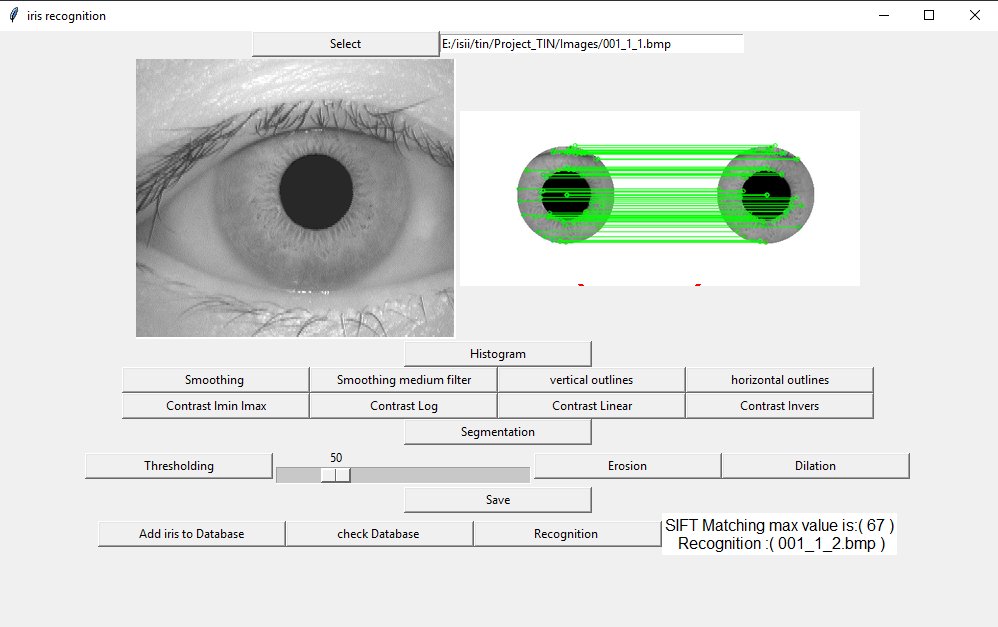
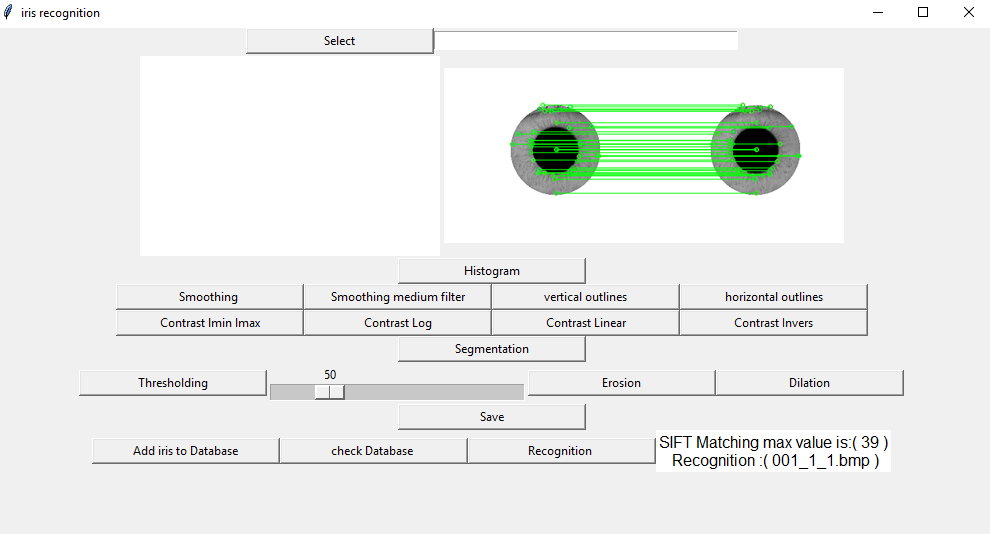
Signed-off-by: hackamro <lounis.amar.unity@gmail.com>

diff --git a/gui.py b/gui.py
@@ -293,7 +293,10 @@ def Recognition (_v):
     try:
         imgOut , v , p= fn.Recognition(file)
         CanvasOutSet(imgOut)
-        varl.set("SIFT Matching max value is:( {} )\n Recognition :( {} )".format(v,p) )
+        if v >= 10: 
+            varl.set("SIFT Matching max value is:( {} )\n Recognition :( {} )".format(v,p) )
+        else:
+            varl.set("SIFT Matching max value is:( {} )\n This iris is not recognized in database \n But it is similar ( {} )".format(v,p) )
     except:
         varl.set("Database SIFT Size =: ( 0 )" )
 

diff --git a/functions.py b/functions.py
@@ -220,7 +220,7 @@ def GetMatching(des1,des2):
     # store all the good matches as per Lowe's ratio test.
     goodMatchs = []
     for m,n in matches:
-        if m.distance < 0.8*n.distance:
+        if m.distance < 0.7*n.distance:
             goodMatchs.append(m)
     return goodMatchs
 
